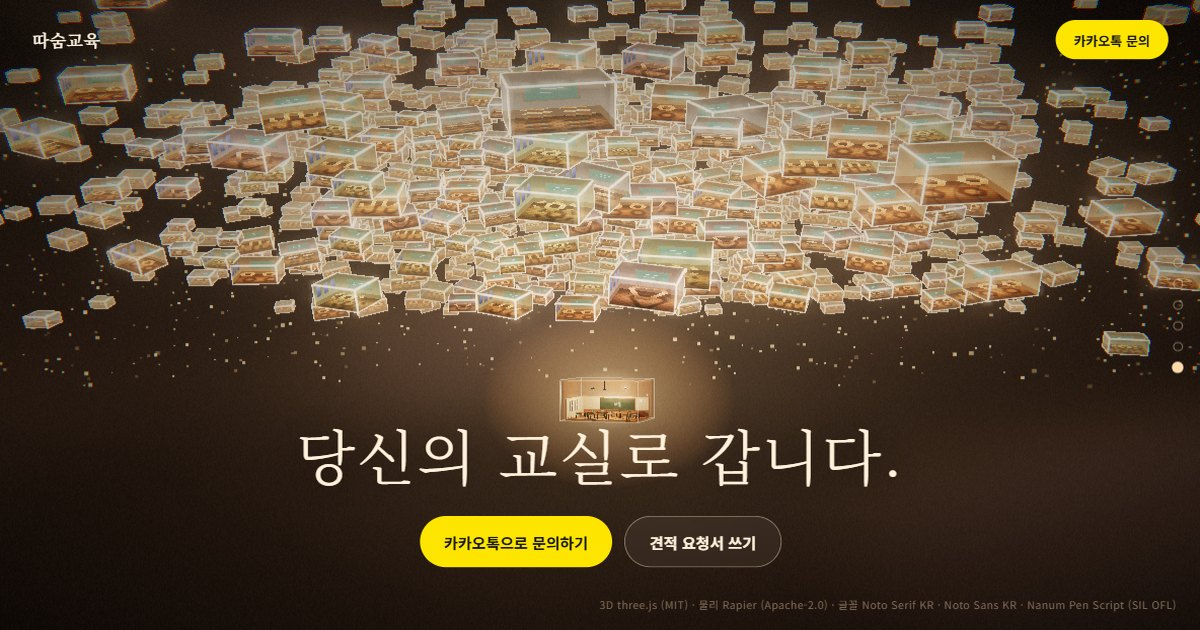
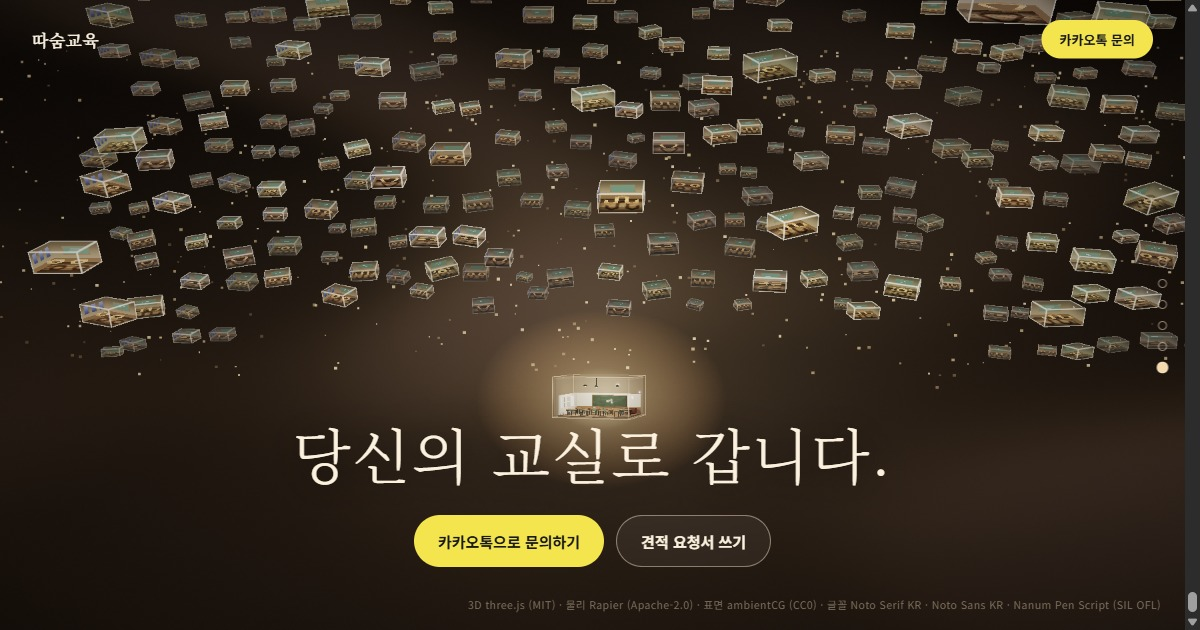
Refresh sharing image for landingthon submission

diff --git a/README.md b/README.md
@@ -4,12 +4,14 @@ Parallax 랜딩톤(제1회) 출품작의 공개 배포본입니다. https://song
 
 - 이 저장소는 GitHub Pages 배포용입니다. `index.html` 한 장과 공유 이미지 `og-finale.jpg`만 둡니다.
 - 원본과 작업 기록은 비공개 저장소 `song0328/hackathon`의 `hackathons/parallax-landingthon-2026/`에 있습니다. 원본(`최종안/index.html`)을 고친 뒤 이 저장소로 복사해 push합니다.
-- 다음 작업 1순위: 수정판을 실제 플립6에서 재확인(스크롤·가로 흔들기·두 손가락 조작). 자세한 건 원본 폴더의 `생각노트.md`.
+- 11/28 공식 기준 검수 뒤 현재판 제출을 권장했습니다. 최신 첨부 스크린샷·제출 문구는 원본 저장소에 준비했으며 실제 출품은 아직 하지 않았습니다. 자세한 건 원본 폴더의 `생각노트.md`.
 
 11/28: 첫 장면 바닥·흐린 반사·접촉 그림자, 교실 마루/책상 재질과 조명을 조정했습니다. 표면 지도는 HTML 안에 포함됩니다. 이후 피드백에 따라 끝 장면 상자를 PC 240·폰 48개로 더 줄이고 중앙 집중을 풀어 여백을 확보했습니다. 첫 장면 기본 시선은 약 9도 높였습니다.
 
 11/28 폰 조작 수정: 상자 위 세로 스와이프로 스크롤, 가로로 끌면 흔들기. 스크롤 추종을 빠르게 하고 그림자/반사 갱신을 분산했습니다. 자동 검사 10개 통과(건너뜀 0)·브라우저 확인을 마쳤으며 실제 플립6 체감 재확인은 남아 있습니다.
 
 사용한 외부 자료: three.js (MIT), Rapier (Apache-2.0), ambientCG WoodFloor051 · Concrete030 (CC0), Noto Serif KR · Noto Sans KR · Nanum Pen Script (SIL OFL).
+
+11/28 제출 전 검수: HTML 동작은 유지하고 공유 미리보기 `og-finale.jpg`를 최신 화면으로 갱신했습니다.
 
 11/28 폰 선명도 수정: 낮아진 해상도가 정상60Hz에서도 회복되도록 고치고 후처리 화면의 테두리 보정을 추가했습니다. 모바일은 기기 밀도 안에서 DPR1.25~1.75로 조절합니다(효과를 줄인 단계의 상한1.5). 관련19개 검사 통과(건너뜀0)·브라우저 전후 화면 확인을 마쳤으며 실제 플립6의 화질·성능·발열은 재확인이 필요합니다.
